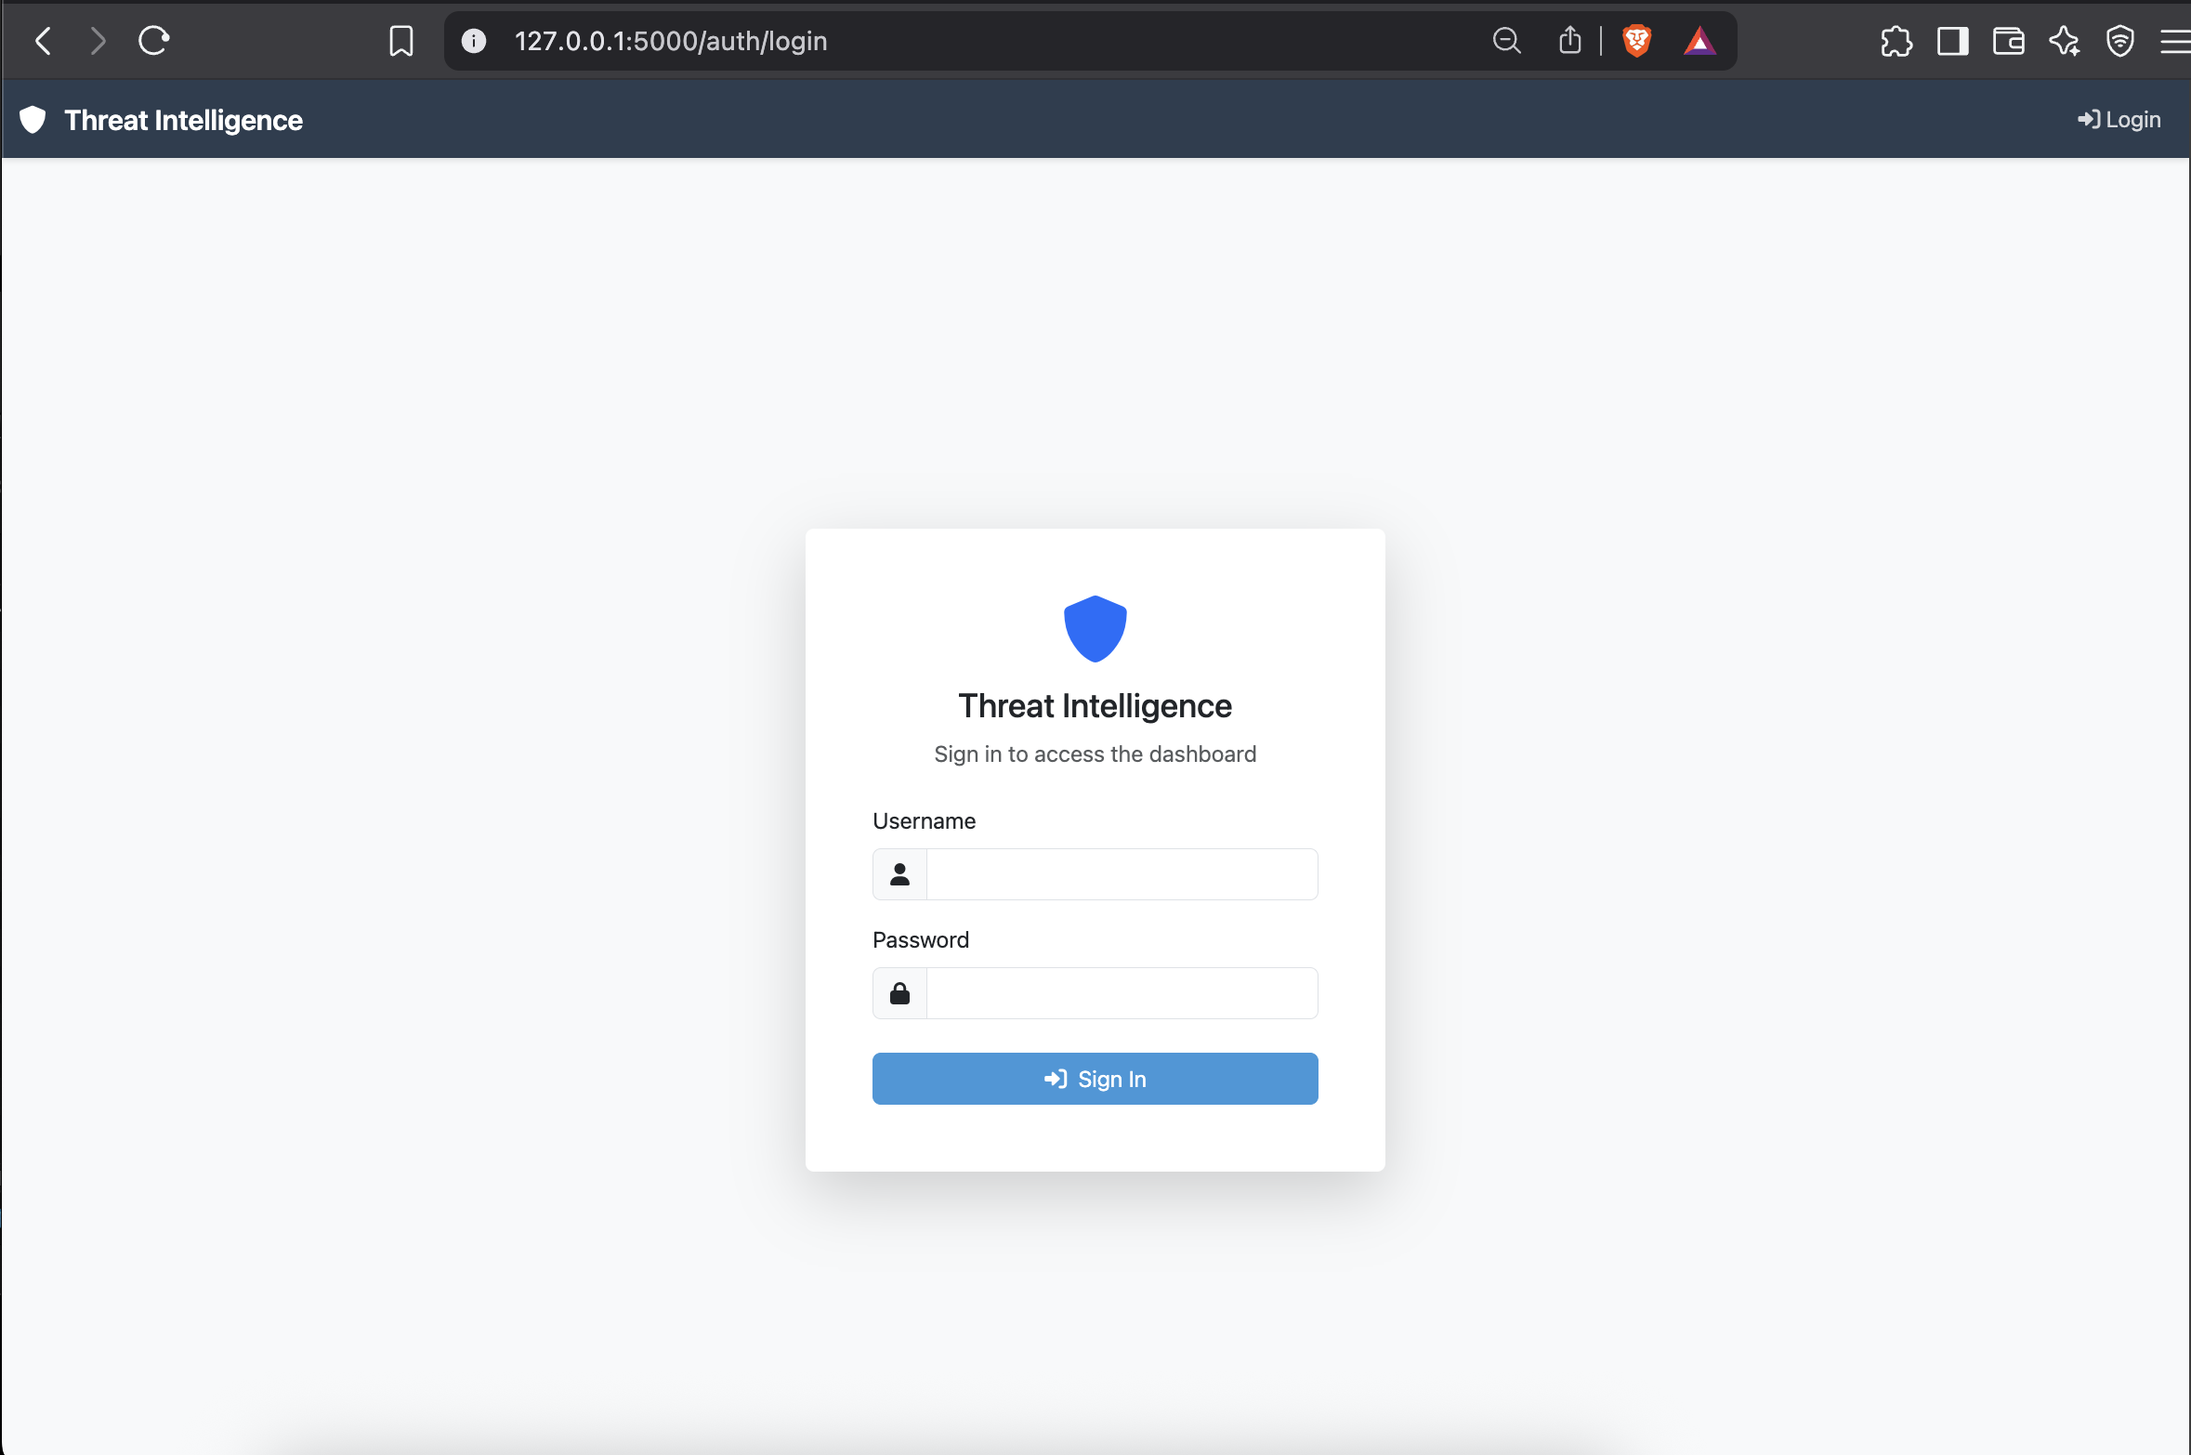
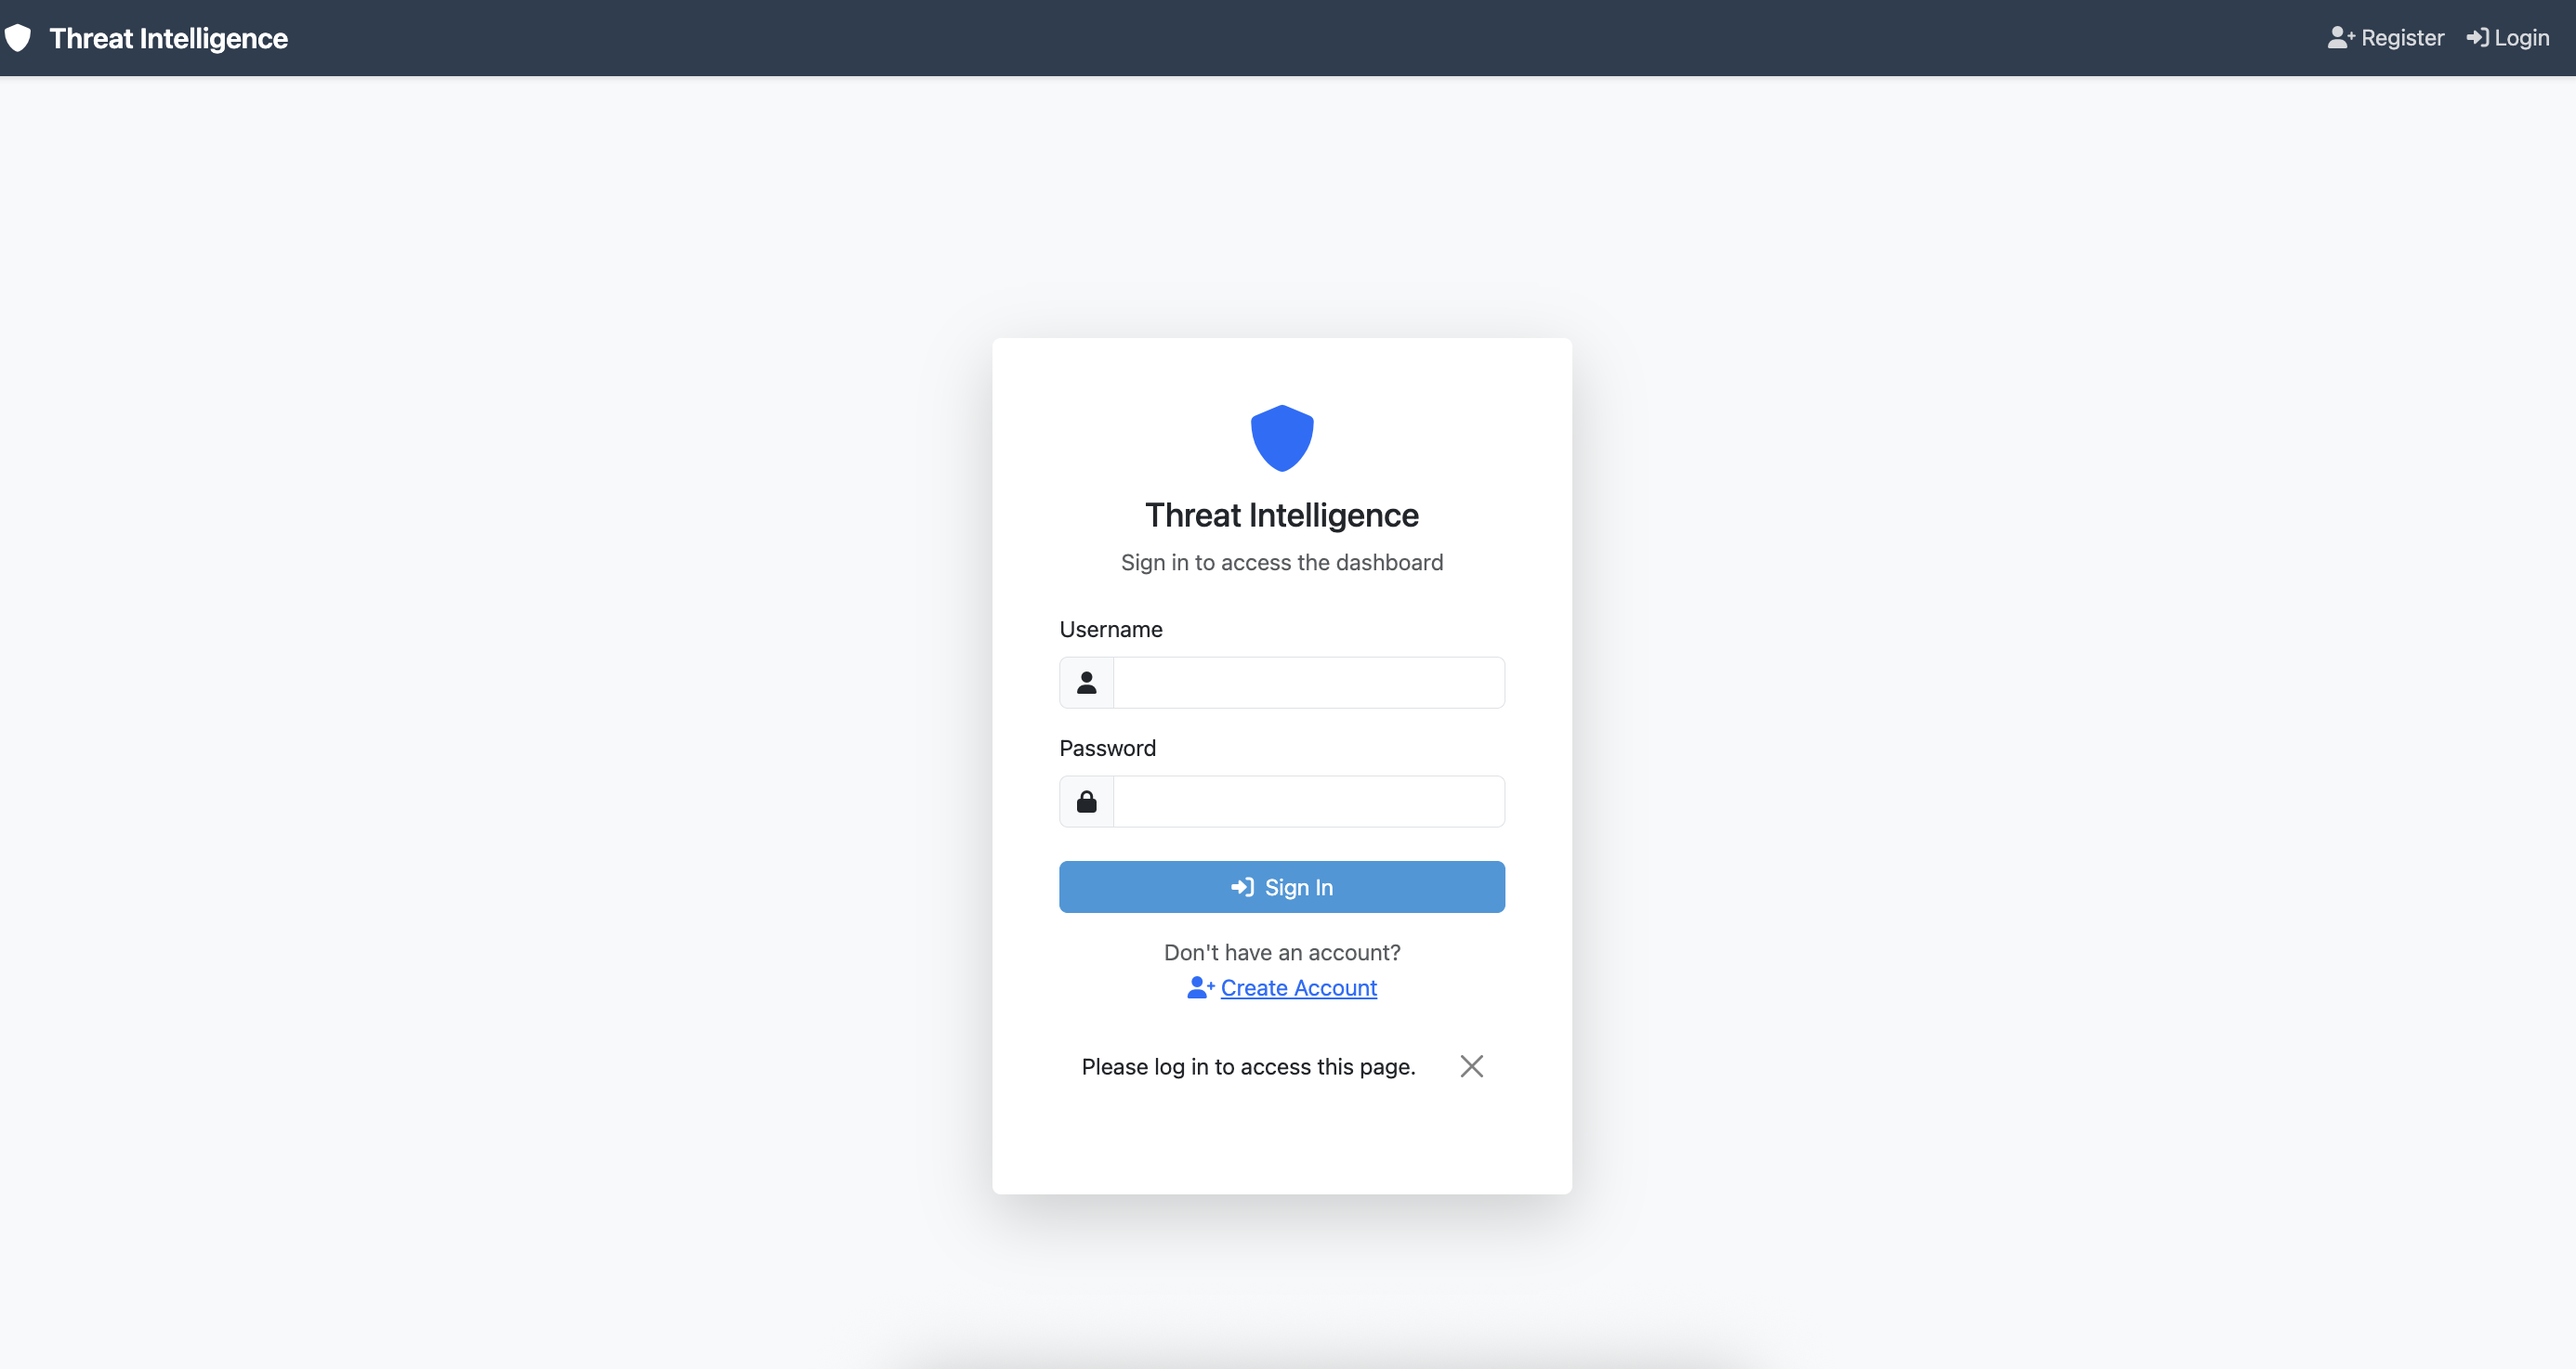
screenshot added

diff --git a/README.md b/README.md
@@ -31,11 +31,35 @@ A comprehensive security monitoring solution that combines external threat intel
 
 ## 📸 Screenshots
 
+### 🔐 Authentication & User Management
 | Feature | Screenshot |
 |---------|------------|
 | **Login Page** | ![Login Page](screenshots/login_page.png) |
-| **Dashboard** | ![Dashboard](screenshots/dashboard.png) |
+| **Create Account** | ![Create Account](screenshots/create_account.png) |
+
+### 📊 Dashboard & Analytics
+| Feature | Screenshot |
+|---------|------------|
+| **Main Dashboard** | ![Dashboard](screenshots/dashboard.png) |
+| **Advanced Dashboard** | ![Advanced Dashboard](screenshots/advanced_dashboard.png) |
+
+### 🔍 Threat Intelligence & Search
+| Feature | Screenshot |
+|---------|------------|
+| **IP Search Interface** | ![Search](screenshots/search.png) |
+| **Threat Intelligence** | ![Threat Intelligence](screenshots/threat_intel.png) |
+| **MITRE ATT&CK Integration** | ![MITRE ATT&CK](screenshots/mitre%20attack.png) |
+
+### 📰 News & Reports
+| Feature | Screenshot |
+|---------|------------|
+| **Security News Feed** | ![News](screenshots/news.png) |
 | **Reports View** | ![Reports](screenshots/reports.png) |
+
+### 🌐 Network Monitoring
+| Feature | Screenshot |
+|---------|------------|
+| **Network Monitoring Dashboard** | ![Network Monitoring](screenshots/network_monitoring.png) |
 
 ## 📋 Prerequisites
 
